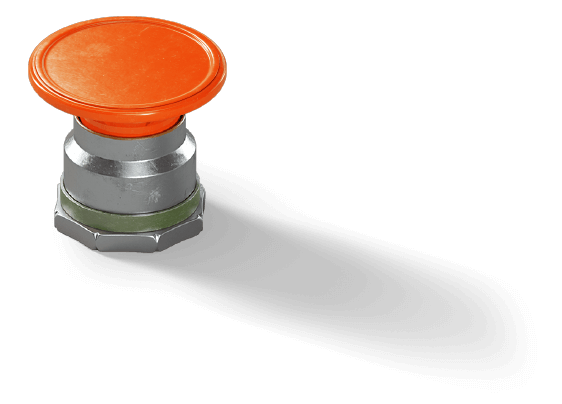
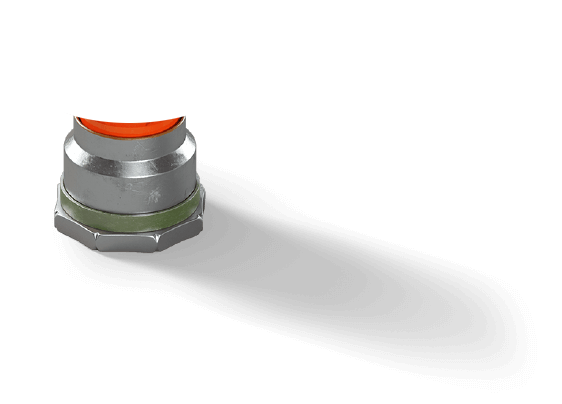
Finished 0824 adjustment

Changed region(s): [[0.0302, 0.0297, 0.4235, 0.3267]]

diff --git a/public/index.html b/public/index.html
@@ -39,7 +39,7 @@
       <div class="icon"></div>
       <div class="nav-content"><a class="btn" href="javascript:;" data-link="3">為什麼建校？</a><a class="btn" href="javascript:;" data-link="5">建校夢想藍圖</a><a class="btn" href="javascript:;" data-link="8">建校園老回饋</a><a class="call btn" href="javascript:;" data-link="9">支持建校方案</a></div>
     </div>
-    <div class="btn" id="call-to-action-btn"><img src="/assets/img/main/call-to-action-off.png" alt=""><img class="text" src="/assets/img/main/call-to-action-text.svg" alt=""></div>
+    <div class="btn" id="call-to-action-btn"><img class="on" src="/assets/img/main/call-to-action-on.png" alt=""><img src="/assets/img/main/call-to-action-off.png" alt=""><img class="text" src="/assets/img/main/call-to-action-text.svg" alt=""></div>
     <div id="popup">
       <div class="close-btn">返回首頁</div>
       <div class="content" data-popup="1">
@@ -426,15 +426,15 @@
           </div>
           <div class="flex-l3-m1-">
             <div class="white-box reveal-left-500">
-              <h2>讓台灣成為亞洲的教育震央</h2>
-              <p>雜學校的年度展覽可以說是全亞洲最大、最不乖的教育展。在面對教育的 問題，除了抱怨以外，我們更願意 起身為自己、為台灣改變。</p>
+              <h2>讓你可以為了台灣的教育而驕傲</h2>
+              <p>雜學校的年度展覽可以說是全亞洲最 大、最不乖的教育展。在面對教育的 問題，除了抱怨以外，我們更願意 起身為自己、為台灣改變。</p>
             </div>
             <div class="white-box reveal-left-500">
-              <h2>從一年一度變成每天的學習體驗</h2>
-              <p>一次的展覽可以讓你下定決心，但真 正的雜學可是一項為期 365 天的挑戰!未來的雜學校不只是讓你看見教育的問題、帶你找到志同道合的朋友，從今以後我們要真的辦教育，請來最大咖、最狂的講師，準備好現在 就入學!</p>
+              <h2>讓你天天都有學習的理由</h2>
+              <p>一次的展覽可以讓你下定決心，但真正 的雜學可是一項為期 365 天的挑戰! 未來的雜學校不只是讓你看見教育的問題、帶你找到志同道合的朋友，從今以後我們要真的辦教育，請來最大咖、最 狂的講師，準備好現在就入學!</p>
             </div>
             <div class="white-box reveal-left-500">
-              <h2>實驗一個未來學校的樣子</h2>
+              <h2>打造我們心目中的未來學校</h2>
               <p>
                 「學你想學，學你想成為」我們相信，這就是未來學校應該有的樣子。過去，沒有人敢這樣做教育;現在，雜學校要成為未來教育的原型。這麼狂的學校，我們要你成為雜學校的第一批學生!
                 
@@ -458,7 +458,7 @@
         </div>
         <div class="right"><img class="reveal-right-500" src="/assets/img/main/7-0-chart.png" alt=""></div>
         <div class="bottom reveal-top-500">
-          200 萬只是台灣一年教育預算的10萬分之7<br>但對我們來說，並不是一筆小數目
+          2000 萬只是台灣一年教育預算的 10 萬分之 7<br>但對我們來說，並不是一筆小數目
           
         </div>
       </div>

diff --git a/public/assets/css/main.css b/public/assets/css/main.css
@@ -276,7 +276,12 @@ a {
   #call-to-action-btn img {
     position: absolute;
     top: 0;
-    left: 0; }
+    left: 0;
+    z-index: 1; }
+    #call-to-action-btn img.on {
+      z-index: 2;
+      -webkit-animation: onoff 0.4s ease 0s infinite alternate;
+      animation: onoff 0.4s ease 0s infinite alternate; }
     #call-to-action-btn img:not(.text) {
       width: 300%;
       -webkit-transform: translate3d(-6%, 5%, 0);
@@ -284,6 +289,26 @@ a {
     #call-to-action-btn img.text {
       width: 100%;
       position: absolute; }
+
+#call-to-action-btn:active .on {
+  -webkit-transform: translate3d(-6%, 6%, 0);
+  transform: translate3d(-6%, 6%, 0); }
+
+@-webkit-keyframes onoff {
+  0% {
+    -webkit-transform: translate3d(-6%, 5%, 0);
+    transform: translate3d(-6%, 5%, 0); }
+  100% {
+    -webkit-transform: translate3d(-6%, 7%, 0);
+    transform: translate3d(-6%, 7%, 0); } }
+
+@keyframes onoff {
+  0% {
+    -webkit-transform: translate3d(-6%, 5%, 0);
+    transform: translate3d(-6%, 5%, 0); }
+  100% {
+    -webkit-transform: translate3d(-6%, 7%, 0);
+    transform: translate3d(-6%, 7%, 0); } }
 
 .unslider {
   overflow: auto;
@@ -1219,7 +1244,7 @@ h3 {
   border-radius: 10px;
   color: #0047BA;
   text-align: center;
-  padding: 30px 40px; }
+  padding: 30px 18px; }
   .white-box h2 {
     text-align: center;
     color: #003FB1;

diff --git a/public/assets/sass/element/_btn.sass b/public/assets/sass/element/_btn.sass
@@ -15,6 +15,11 @@
 		position: absolute
 		top: 0
 		left: 0
+		z-index: 1
+
+		&.on
+			z-index: 2
+			animation: onoff 0.4s ease 0s infinite alternate
 		
 		&:not(.text)
 	    width: 300%
@@ -24,3 +29,14 @@
 			width: 100%
 			position: absolute
 
+
+
+#call-to-action-btn:active
+	.on
+		transform: translate3d(-6%, 6%, 0)
+
+@keyframes onoff
+	0%
+		transform: translate3d(-6%, 5%, 0)
+	100%
+		transform: translate3d(-6%, 7%, 0)

diff --git a/public/assets/sass/layout/_5.sass b/public/assets/sass/layout/_5.sass
@@ -104,7 +104,7 @@
 	border-radius: 10px
 	color: $b
 	text-align: center
-	padding: 30px 40px
+	padding: 30px 18px
 
 	h2
 		text-align: center
